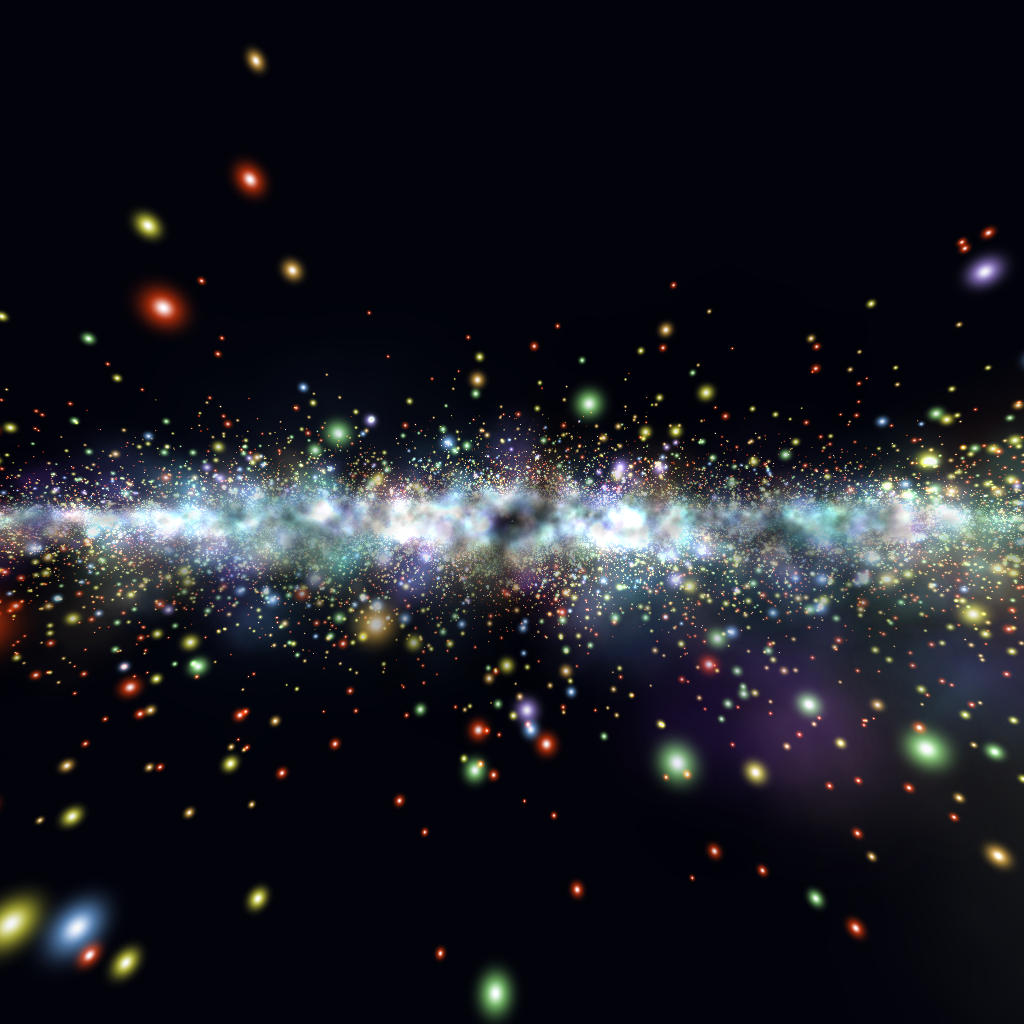
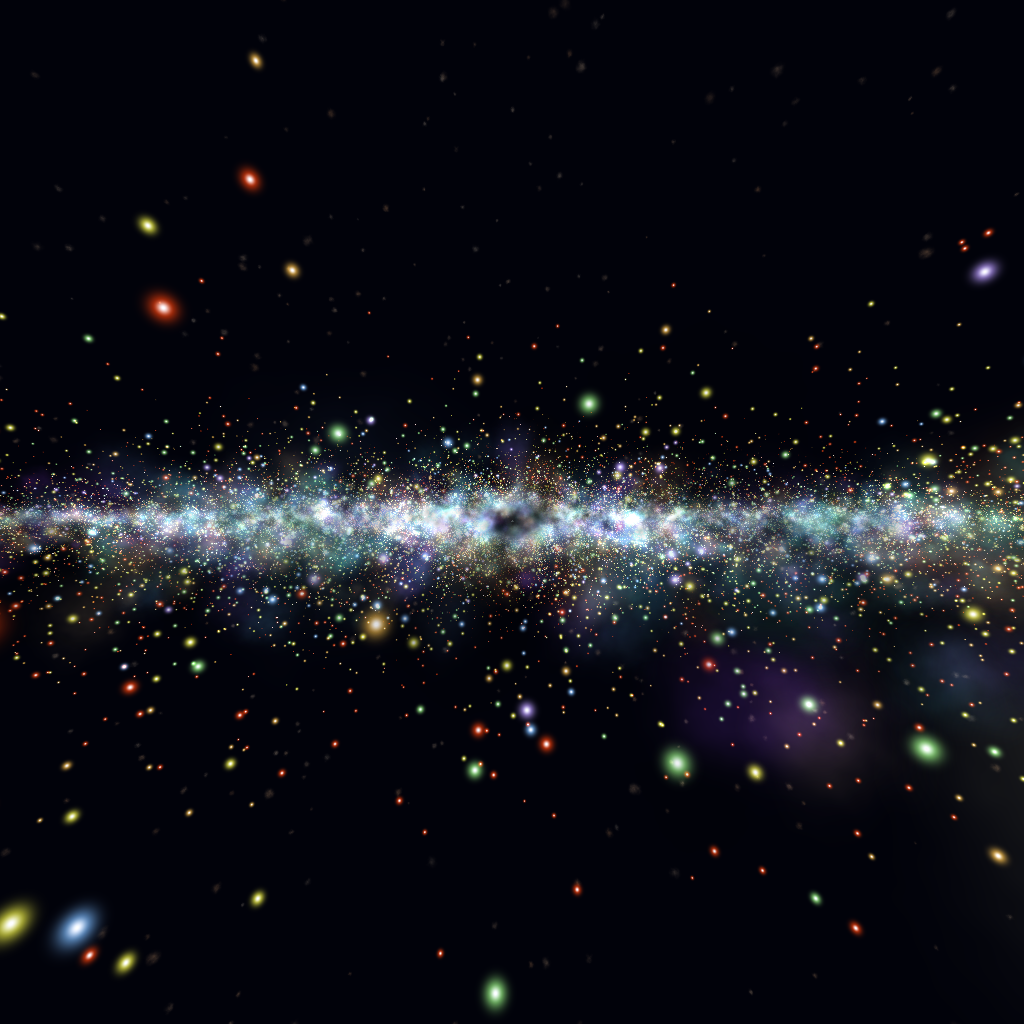
[feat] distant galaxies — the off-band sky is no longer empty
Tonio: "set aside a budget for other galaxies -- nebula that are further out and
pale yellow to orange."

Implemented in `galaxy-data` and exposed as `distantGalaxies` on `b3d-galaxy`
(default 500). They are appended to the existing nebula array on purpose — the
emission path already draws exactly this, so placing them differently saves a
whole rendering path.

Three properties make them read as other galaxies rather than as more nebulae:
ISOTROPIC rather than along the arms, since they are not part of this galaxy and
even scattering is the only thing that reaches the poles the band cannot;
OUTSIDE it, on a shell past maxRadius, so they never interleave with local
structure; and pale yellow through orange — old stellar populations, reddened by
redshift, deliberately sharing no range with the vivid foreground stars.

The first pass was invisible and the reason is worth keeping: I sized them at
0.5–1.9 against local nebulae of 2.25–7.5 AND put them 2–3× further away, so
they landed about twenty times smaller on screen. "Small" is an ANGULAR
judgement and these are the far objects, so the world size has to GROW to stay
legible. At 3–9 they subtend roughly a third of a local nebula — still clearly
distant, now actually present. Measured on the pole face: 58k → 119k of PNG.

And they fix the thing they were meant to. The previous default cube was made
denser by raising particle size to 1.0, which fills the frame by turning the
[…]

diff --git a/src/galaxy-data.ts b/src/galaxy-data.ts
@@ -849,6 +849,14 @@ export interface GalaxyOptions {
   minRadius?: number
   maxRadius?: number
   thickness?: number
+  /**
+   * How many external galaxies to scatter isotropically OUTSIDE the disc.
+   *
+   * A budget of its own rather than a fraction of `numberOfStars`, because the
+   * emptiness it fills is a property of the SKY and not of how dense this
+   * galaxy happens to be.
+   */
+  distantGalaxies?: number
 }
 
 const GALAXY_DEFAULTS: Required<GalaxyOptions> = {
@@ -857,6 +865,8 @@ const GALAXY_DEFAULTS: Required<GalaxyOptions> = {
   minRadius: 0.02,
   maxRadius: 0.9,
   thickness: 0.06,
+  /** How many external galaxies to scatter around the outside. */
+  distantGalaxies: 500,
 }
 
 export interface NebulaData {
@@ -979,6 +989,21 @@ export function generateGalaxy(
     }
   }
 
+  /*
+  OTHER GALAXIES — pale yellow through orange, and the colour is not a taste.
+
+  They read warm because they are OLD stellar populations, reddened further by
+  redshift. Nothing out there is blue at that distance, and nothing is white,
+  so this palette deliberately shares no range with the foreground stars.
+  */
+  function distantGalaxyColor(t: number): [number, number, number] {
+    return [
+      255,
+      Math.round(236 - t * 60), // 236 → 176
+      Math.round(198 - t * 96), // 198 → 102
+    ]
+  }
+
   // Dark nebula color: black → brown
   function darkNebulaColor(t: number): [number, number, number] {
     return [
@@ -1054,6 +1079,64 @@ export function generateGalaxy(
         opacity,
       })
     }
+  }
+
+  /*
+  A BUDGET FOR OTHER GALAXIES, which is what actually fills an empty sky.
+
+  Off the galactic band the real sky is not black — it is faint external
+  galaxies — and a sky that renders it black is the one that reads as sparse.
+  The alternative we tried first was raising star PARTICLE SIZE, which fills the
+  frame and turns the nearest stars into dinner plates: stars are billboards
+  sized in world units, so the two pull against each other and no single value
+  wins. Tonio: "set aside a budget for other galaxies — nebula that are further
+  out and pale yellow to orange."
+
+  Three things make them read as galaxies rather than as more nebulae:
+
+  - **ISOTROPIC**, not along the arms. They are not part of this galaxy, and
+    scattering them evenly is the only thing that reaches the poles the band
+    cannot.
+  - **OUTSIDE** it, on a shell past `maxRadius`, so they never interleave with
+    local structure.
+  - **SMALL and FAINT.** Their whole job is texture where there is none;
+    anything big enough to read as a subject is a different feature.
+
+  They are appended to `nebulae` on purpose — the emission path already draws
+  exactly this, so a whole rendering path is saved by placing them differently
+  rather than by inventing them.
+  */
+  const galaxyCount = Math.max(0, Math.round(opts.distantGalaxies))
+  for (let i = 0; i < galaxyCount; i++) {
+    // Uniform on the sphere: z uniform, NOT latitude uniform, or they bunch at
+    // the poles — which is precisely the region they exist to populate.
+    const u = prng.realRange(-1, 1)
+    const theta = prng.realRange(0, Math.PI * 2)
+    const r = Math.sqrt(Math.max(0, 1 - u * u))
+    const dist = maxRadius * prng.realRange(1.35, 2.9)
+    nebulae.push({
+      position: {
+        x: dist * r * Math.cos(theta),
+        y: dist * r * Math.sin(theta),
+        z: dist * u,
+      },
+      /*
+      SIZED AGAINST THE DISTANCE, not against "small".
+
+      The first pass used 0.5–1.9 while local nebulae are 2.25–7.5, and put them
+      2–3× further away on top of that — so they landed roughly twenty times
+      smaller on screen and a 1024px face showed essentially nothing. "Small"
+      is an ANGULAR judgement and these are the far objects, so the world size
+      has to grow to stay legible.
+
+      At 3–9 units and 2–3× the distance they subtend about a third to a half of
+      a local nebula: still clearly the far things, now actually present.
+      */
+      scale: prng.realRange(3, 9),
+      rgb: distantGalaxyColor(prng.value()),
+      type: 'emission',
+      opacity: prng.realRange(0.3, 0.55),
+    })
   }
 
   return { stars, nebulae, seed, options: opts }

diff --git a/src/b3d-galaxy.ts b/src/b3d-galaxy.ts
@@ -320,6 +320,7 @@ tosi-b3d {
 | `spiralAngle` | `240` | Spiral arm sweep in degrees |
 | `thickness` | `0.06` | Disk thickness (fraction of radius) |
 | `particleSize` | `1.0` | Base star particle diameter |
+| `distantGalaxies` | `500` | External galaxies scattered isotropically outside the disc — what keeps the off-band sky from reading as empty |
 | `coreSize` | `0.12` | Central black hole radius. Disk radii are multiples of it, so this scales the whole assembly |
 
 */
@@ -365,6 +366,12 @@ export class B3dGalaxy extends B3dChild {
     down. Brightness is the one that was actually doing the damage.
     */
     coreSize: 0.12,
+    /*
+    OTHER GALAXIES, scattered outside this one. A budget of its own rather than
+    a fraction of `starCount`, because the emptiness they fill belongs to the
+    SKY and not to how dense this galaxy happens to be.
+    */
+    distantGalaxies: 500,
   }
 
   declare seed: number
@@ -375,6 +382,7 @@ export class B3dGalaxy extends B3dChild {
   declare thickness: number
   declare particleSize: number
   declare coreSize: number
+  declare distantGalaxies: number
 
   owner: B3d | null = null
 
@@ -712,6 +720,7 @@ export class B3dGalaxy extends B3dChild {
       spiralArms: attrs.spiralArms,
       spiralAngleDegrees: attrs.spiralAngle,
       thickness: attrs.thickness,
+      distantGalaxies: attrs.distantGalaxies,
     })
 
     const { stars, nebulae } = this.galaxyData
